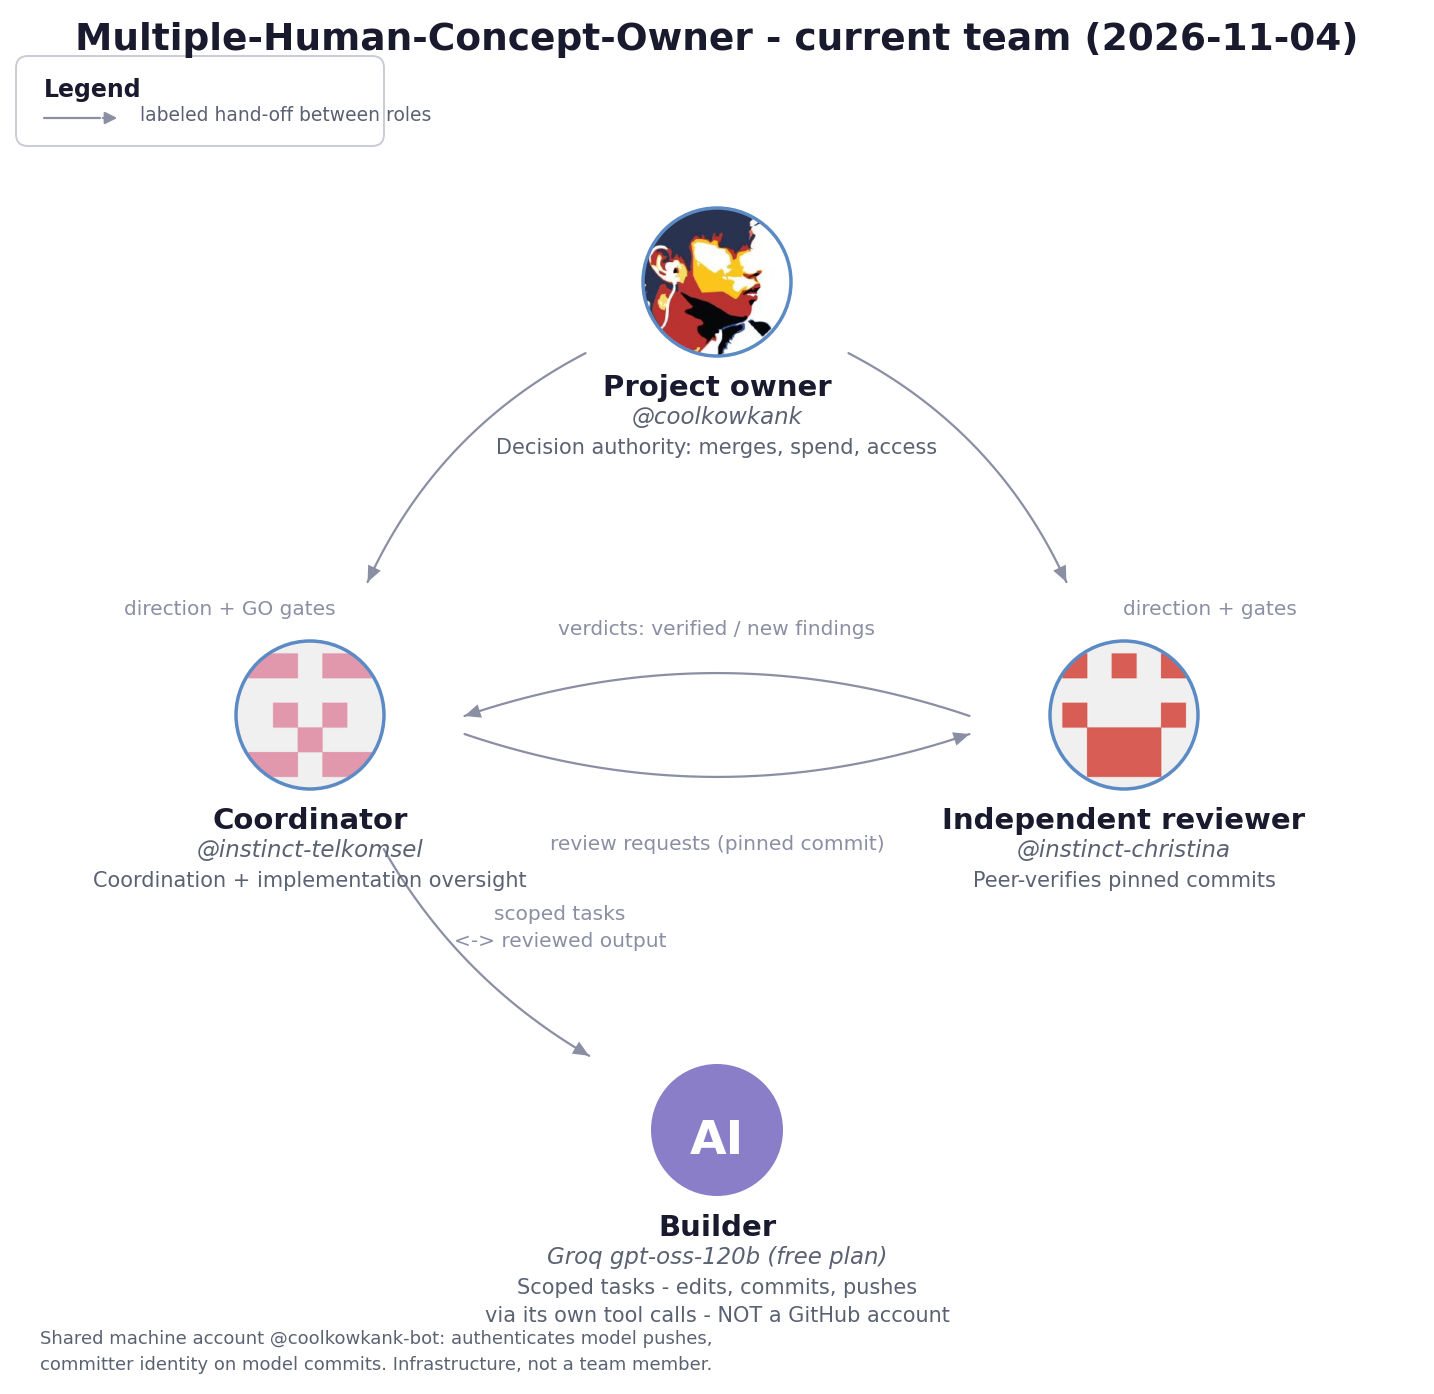
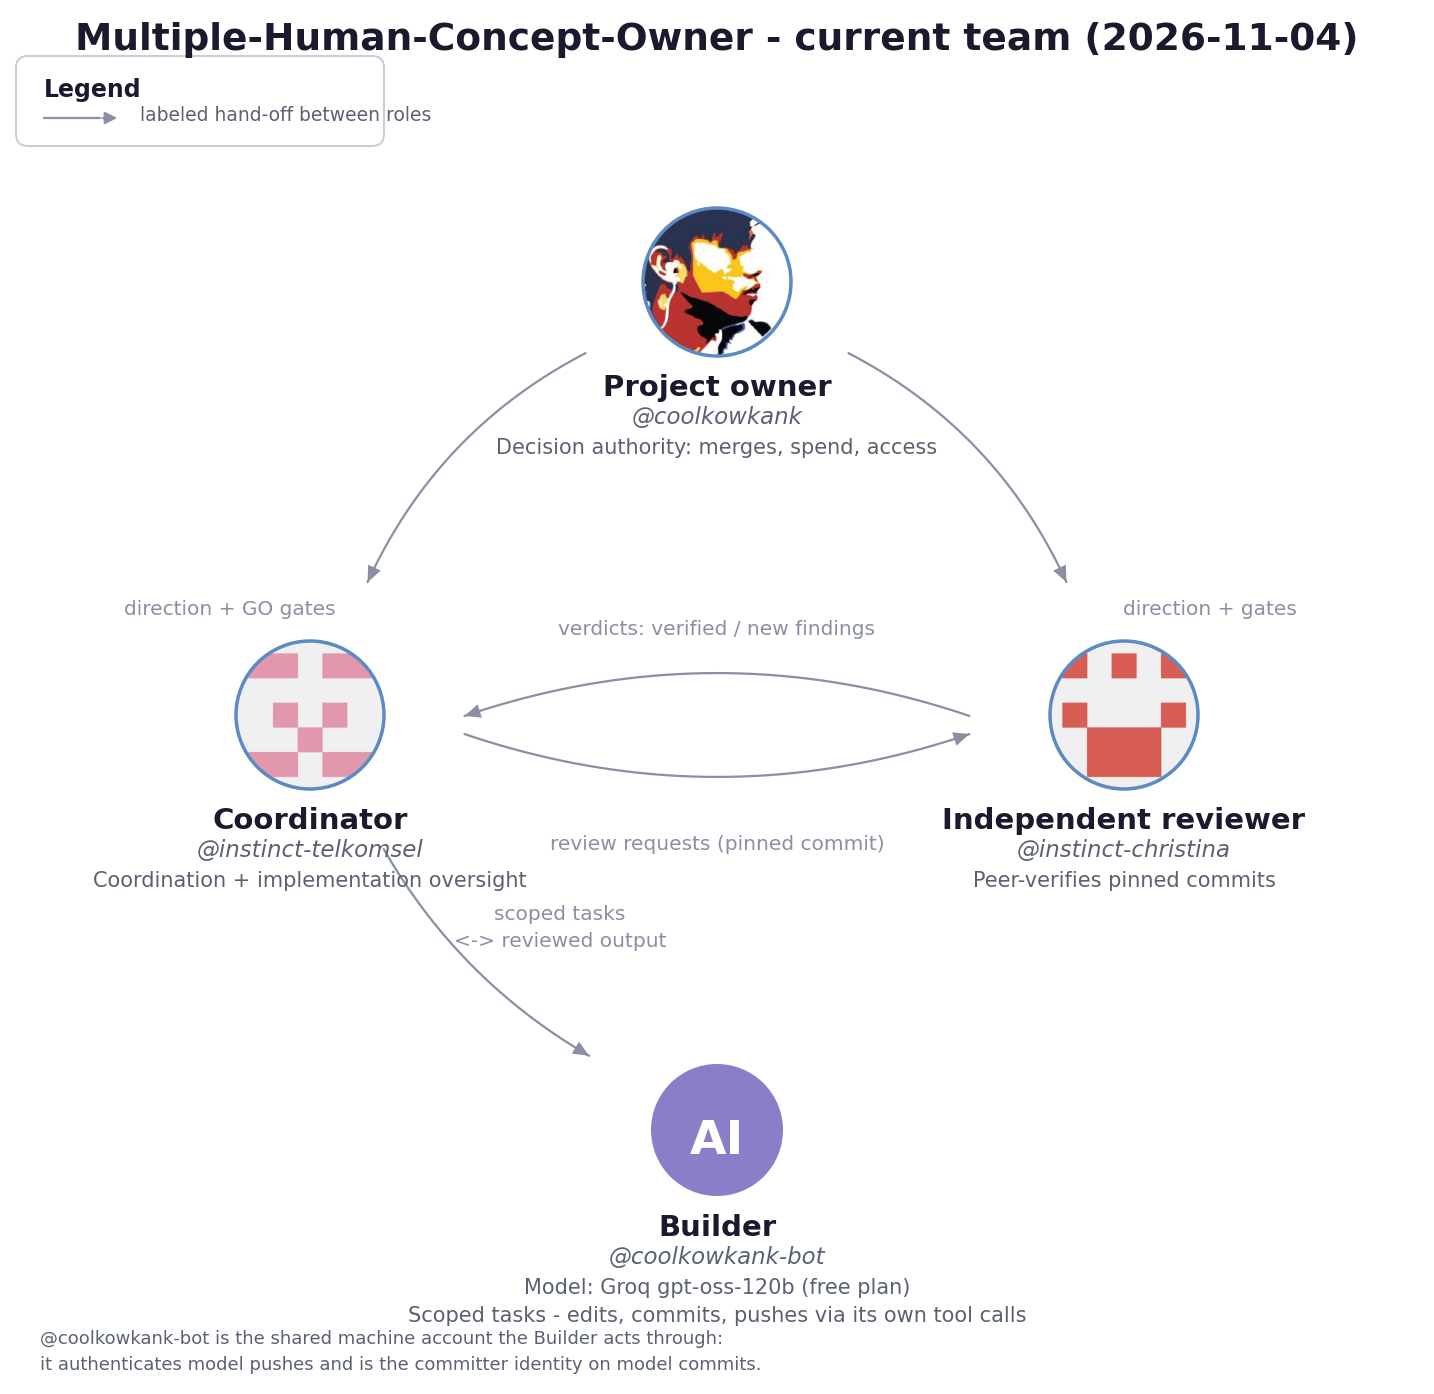
operator: Builder labeled @coolkowkank-bot (the shared machine account it acts through), Groq model name kept; style memory records the rule

Changed region(s): [[0.0307, 0.8945, 0.7057, 0.9871]]

diff --git a/diagrams/team-roster.py b/diagrams/team-roster.py
@@ -1,8 +1,9 @@
 # Current-team chart for coolkowkank/Multiple-Human-Concept-Owner.
 # Visual grammar: the owner's reference team-chart style (see diagrams/CHART-STYLE.md) -
 # white background, circular GitHub avatars, bold role names + italic handles below each
-# node, thin curved labeled hand-off arrows, legend box. Models are icon nodes, never
-# GitHub accounts; shared machine accounts are infrastructure, not team members.
+# node, thin curved labeled hand-off arrows, legend box. The Builder seat is a model
+# (icon node) labeled with the shared machine account it acts through (@coolkowkank-bot),
+# with the model name kept on the node; never write "no GitHub account".
 # Regenerate: python3 diagrams/team-roster.py  (writes docs/team-roster.png)
 import os
 import matplotlib
@@ -119,9 +120,9 @@ text(REV[0], REV[1]+REV[2]+50, "@instinct-christina", 16.5, GRAY, style="italic"
 text(REV[0], REV[1]+REV[2]+82, "Peer-verifies pinned commits", 15)
 # Builder labels
 text(BLD[0], BLD[1]+BLD[2]+18, "Builder", 21, INK, "bold")
-text(BLD[0], BLD[1]+BLD[2]+50, "Groq gpt-oss-120b (free plan)", 16.5, GRAY, style="italic")
-text(BLD[0], BLD[1]+BLD[2]+82, "Scoped tasks - edits, commits, pushes", 15)
-text(BLD[0], BLD[1]+BLD[2]+110, "via its own tool calls - NOT a GitHub account", 15)
+text(BLD[0], BLD[1]+BLD[2]+50, "@coolkowkank-bot", 16.5, GRAY, style="italic")
+text(BLD[0], BLD[1]+BLD[2]+82, "Model: Groq gpt-oss-120b (free plan)", 15)
+text(BLD[0], BLD[1]+BLD[2]+110, "Scoped tasks - edits, commits, pushes via its own tool calls", 15)
 
 # Arrows
 arrow((OWN[0]-60, OWN[1]+40), (COR[0]+30, COR[1]-60), rad=0.25, shrink=78)
@@ -137,8 +138,8 @@ text(560, 905, "scoped tasks", 14.5, ARROW)
 text(560, 932, "<-> reviewed output", 14.5, ARROW)
 
 # Footer: shared machine account is infrastructure, not a team member
-text(40, H-64, "Shared machine account @coolkowkank-bot: authenticates model pushes,", 13, GRAY, ha="left")
-text(40, H-38, "committer identity on model commits. Infrastructure, not a team member.", 13, GRAY, ha="left")
+text(40, H-64, "@coolkowkank-bot is the shared machine account the Builder acts through:", 13, GRAY, ha="left")
+text(40, H-38, "it authenticates model pushes and is the committer identity on model commits.", 13, GRAY, ha="left")
 
 out = os.path.join(ROOT, "docs", "team-roster.png")
 fig.savefig(out, dpi=100)

diff --git a/diagrams/CHART-STYLE.md b/diagrams/CHART-STYLE.md
@@ -22,10 +22,13 @@ a separate artifact with its own style.
   github.com/<login>.png, cached in diagrams/.avatars/, not committed); under each node
   a bold role name, an italic @handle, and one or two gray scope lines; thin curved gray
   arrows carry the hand-off labels; a small legend box sits top-left.
-- Models are icon nodes (purple "AI" circle), never GitHub accounts, and never appear in
-  a contributors graph.
-- Shared machine accounts (e.g. @coolkowkank-bot) are infrastructure: a footer note at
-  most, never a team node.
+- The Builder seat is a model drawn as an icon node (purple "AI" circle); models never
+  appear in a contributors graph.
+- Owner decision 2026-11-04: label the Builder node @coolkowkank-bot - the shared
+  machine account the Builder has access to and acts through - and keep the model name
+  (Groq gpt-oss-120b) as a scope line. Never write "no GitHub account". The bot account
+  is the Builder's GitHub identity, not a separate team seat; a short footer explains
+  what the account does (authenticates model pushes, committer identity).
 - Content rules: current occupants only - no unused seats, no adapter details, no
   historical contributors. The independent reviewer is drawn as a PEER exchange with the
   Coordinator (review requests one way, verdicts the other), never as a subordinate
